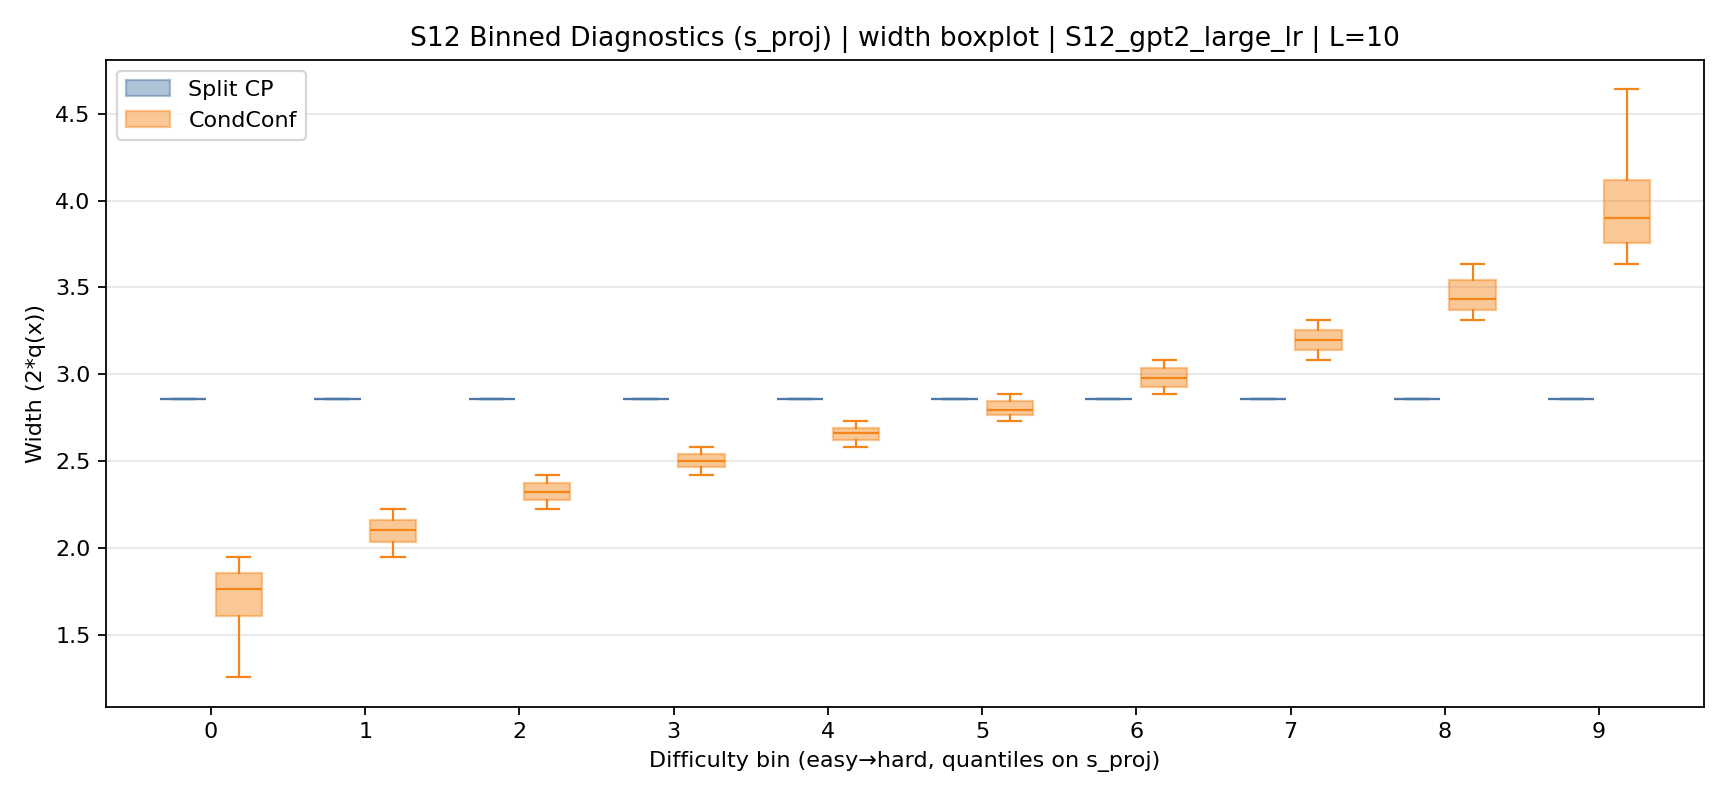
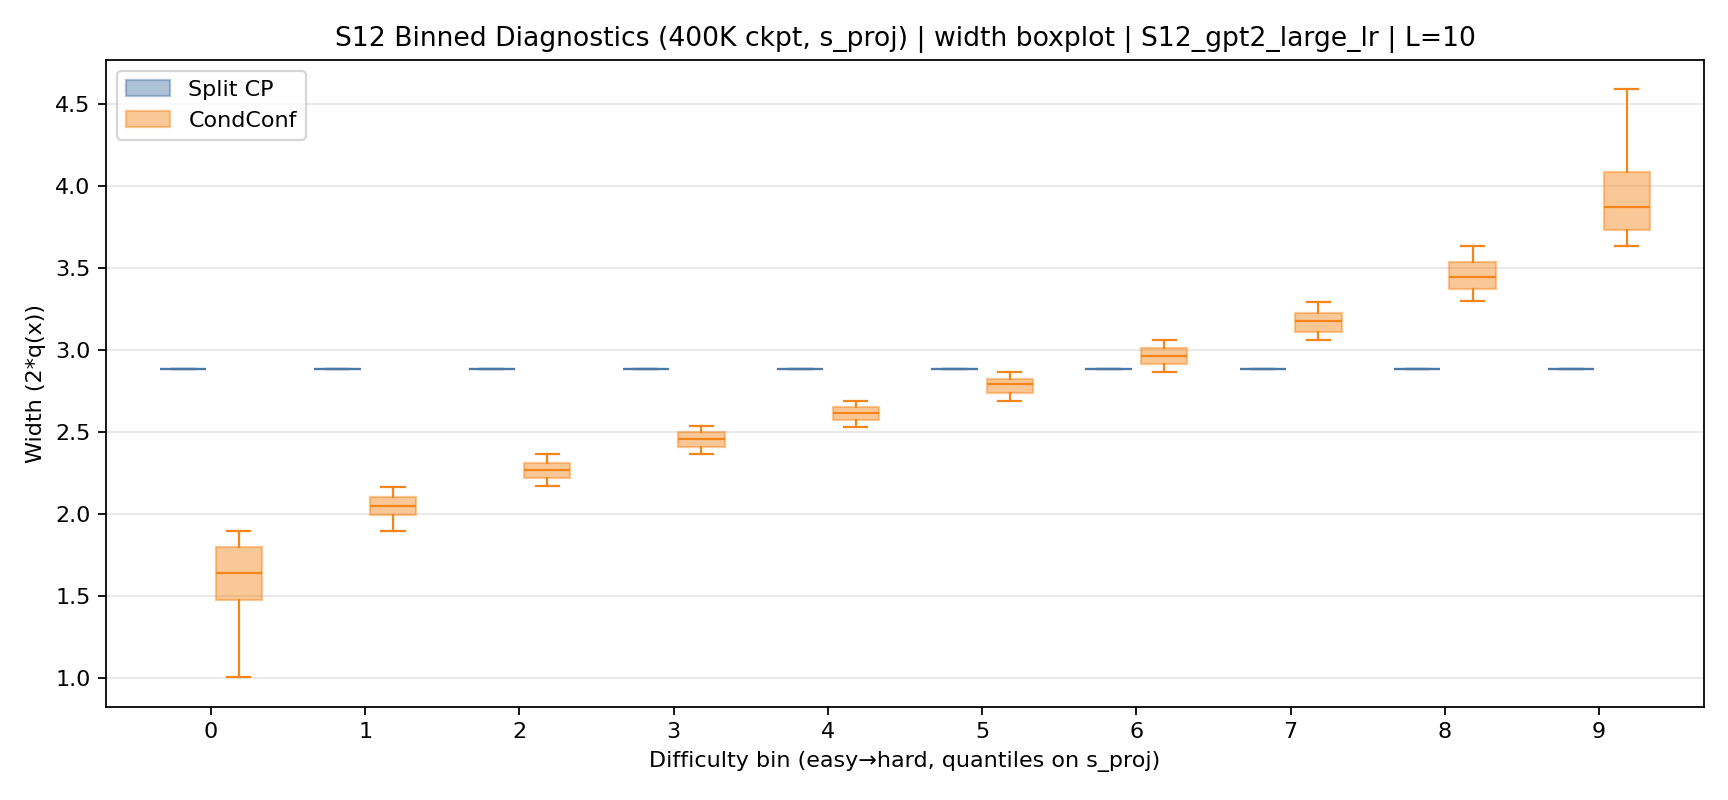
Update s_proj CondConf report to 400K results

diff --git a/scaling_report/main.tex b/scaling_report/main.tex
@@ -200,7 +200,7 @@ that targets marginal coverage $1-\alpha = 95\%$ (with $\alpha = 0.05$). Here $Z
 
 \subsubsection{Task and Models}
 We reuse the same noiseless linear regression task and the 12 dense Transformer checkpoints (S01--S12) from Experiment One.
-Unless otherwise noted, all evaluations use the checkpoint at 300{,}000 training steps (\texttt{model\_300000.pt}).
+Unless otherwise noted, all evaluations use the checkpoint at 400{,}000 training steps (\texttt{model\_400000.pt}).
 
 \subsubsection{A Geometric Difficulty Covariate: \texorpdfstring{$s_{\mathrm{proj}}$}{s\_proj}}
 Let $L$ be the ICL length, $X_L \in \mathbb{R}^{L\times d}$ be the matrix of context inputs (rows are examples), and let $x_q \in \mathbb{R}^d$ be the query input.
@@ -260,7 +260,7 @@ Conditioning feature & $s_{\mathrm{proj}}(Z)=\|(I-P_L)x_q\|_2$ \\
 CondConf feature class & $q(Z)=\beta_0+\beta_1 s_{\mathrm{proj}}(Z)$ (\texttt{--phi linear}) \\
 Episodes per ICL length & $n=6400$ (3200 calib / 3200 test) \\
 ICL lengths & $L=1,\dots,20$ \\
-Checkpoint step & 300{,}000 \\
+Checkpoint step & 400{,}000 \\
 Bootstrap CI & 90\% CI with 1000 trials \\
 Diagnostics & 10 quantile bins on $s_{\mathrm{proj}}$ \\
 \bottomrule
@@ -310,18 +310,18 @@ For CondConf we report the median width across test episodes; for Split CP the w
 \cmidrule(lr){2-5}\cmidrule(lr){6-9}
 \textbf{Model} & \textbf{CondCov} & \textbf{SplitCov} & \textbf{CondMedW} & \textbf{SplitW} & \textbf{CondCov} & \textbf{SplitCov} & \textbf{CondMedW} & \textbf{SplitW} \\
 \midrule
-S01 & 95.00 & 95.41 & 3.85 & 4.04 & 95.72 & 95.72 & 2.60 & 2.60 \\
-S02 & 95.12 & 94.66 & 3.66 & 3.76 & 94.19 & 94.03 & 1.76 & 1.75 \\
-S03 & 93.66 & 93.91 & 3.71 & 3.77 & 94.91 & 94.91 & 1.74 & 1.74 \\
-S04 & 94.97 & 94.66 & 3.71 & 3.86 & 95.34 & 95.34 & 1.19 & 1.20 \\
-S05 & 95.69 & 96.12 & 3.81 & 4.00 & 95.22 & 95.16 & 2.64 & 2.64 \\
-S06 & 95.22 & 94.19 & 3.84 & 3.82 & 94.78 & 94.75 & 1.99 & 1.98 \\
-S07 & 95.69 & 95.03 & 3.79 & 3.91 & 95.34 & 95.31 & 1.85 & 1.85 \\
-S08 & 95.41 & 94.84 & 3.85 & 3.84 & 95.53 & 95.47 & 1.73 & 1.73 \\
-S09 & 96.12 & 95.19 & 3.88 & 3.94 & 94.41 & 94.44 & 2.49 & 2.48 \\
-S10 & 95.19 & 94.84 & 3.76 & 3.89 & 94.94 & 94.91 & 1.61 & 1.61 \\
-S11 & 95.09 & 94.41 & 3.84 & 3.88 & 94.97 & 94.97 & 3.15 & 3.15 \\
-S12 & 94.69 & 93.91 & 3.71 & 3.78 & 95.28 & 95.31 & 1.18 & 1.18 \\
+S01 & 94.28 & 95.06 & 3.69 & 3.89 & 94.22 & 94.19 & 2.38 & 2.38 \\
+S02 & 95.78 & 95.84 & 3.80 & 3.97 & 94.91 & 94.91 & 1.69 & 1.69 \\
+S03 & 95.53 & 95.69 & 3.76 & 3.88 & 95.16 & 95.09 & 1.59 & 1.59 \\
+S04 & 95.72 & 95.47 & 3.88 & 4.02 & 95.50 & 95.47 & 1.15 & 1.15 \\
+S05 & 95.19 & 94.72 & 3.71 & 3.84 & 95.94 & 96.06 & 2.72 & 2.74 \\
+S06 & 94.62 & 94.41 & 3.78 & 3.85 & 95.97 & 95.91 & 1.85 & 1.85 \\
+S07 & 95.47 & 95.00 & 3.82 & 3.90 & 95.38 & 95.38 & 1.80 & 1.80 \\
+S08 & 95.25 & 94.84 & 3.82 & 3.93 & 95.06 & 95.06 & 1.71 & 1.71 \\
+S09 & 95.56 & 95.56 & 3.81 & 3.91 & 94.53 & 94.50 & 2.38 & 2.38 \\
+S10 & 95.22 & 94.97 & 3.83 & 3.93 & 95.91 & 95.88 & 1.51 & 1.50 \\
+S11 & 94.59 & 94.59 & 3.69 & 3.81 & 95.81 & 95.84 & 1.67 & 1.67 \\
+S12 & 94.31 & 94.41 & 3.67 & 3.84 & 94.75 & 94.66 & 1.10 & 1.11 \\
 \bottomrule
 \end{tabular}
 }
